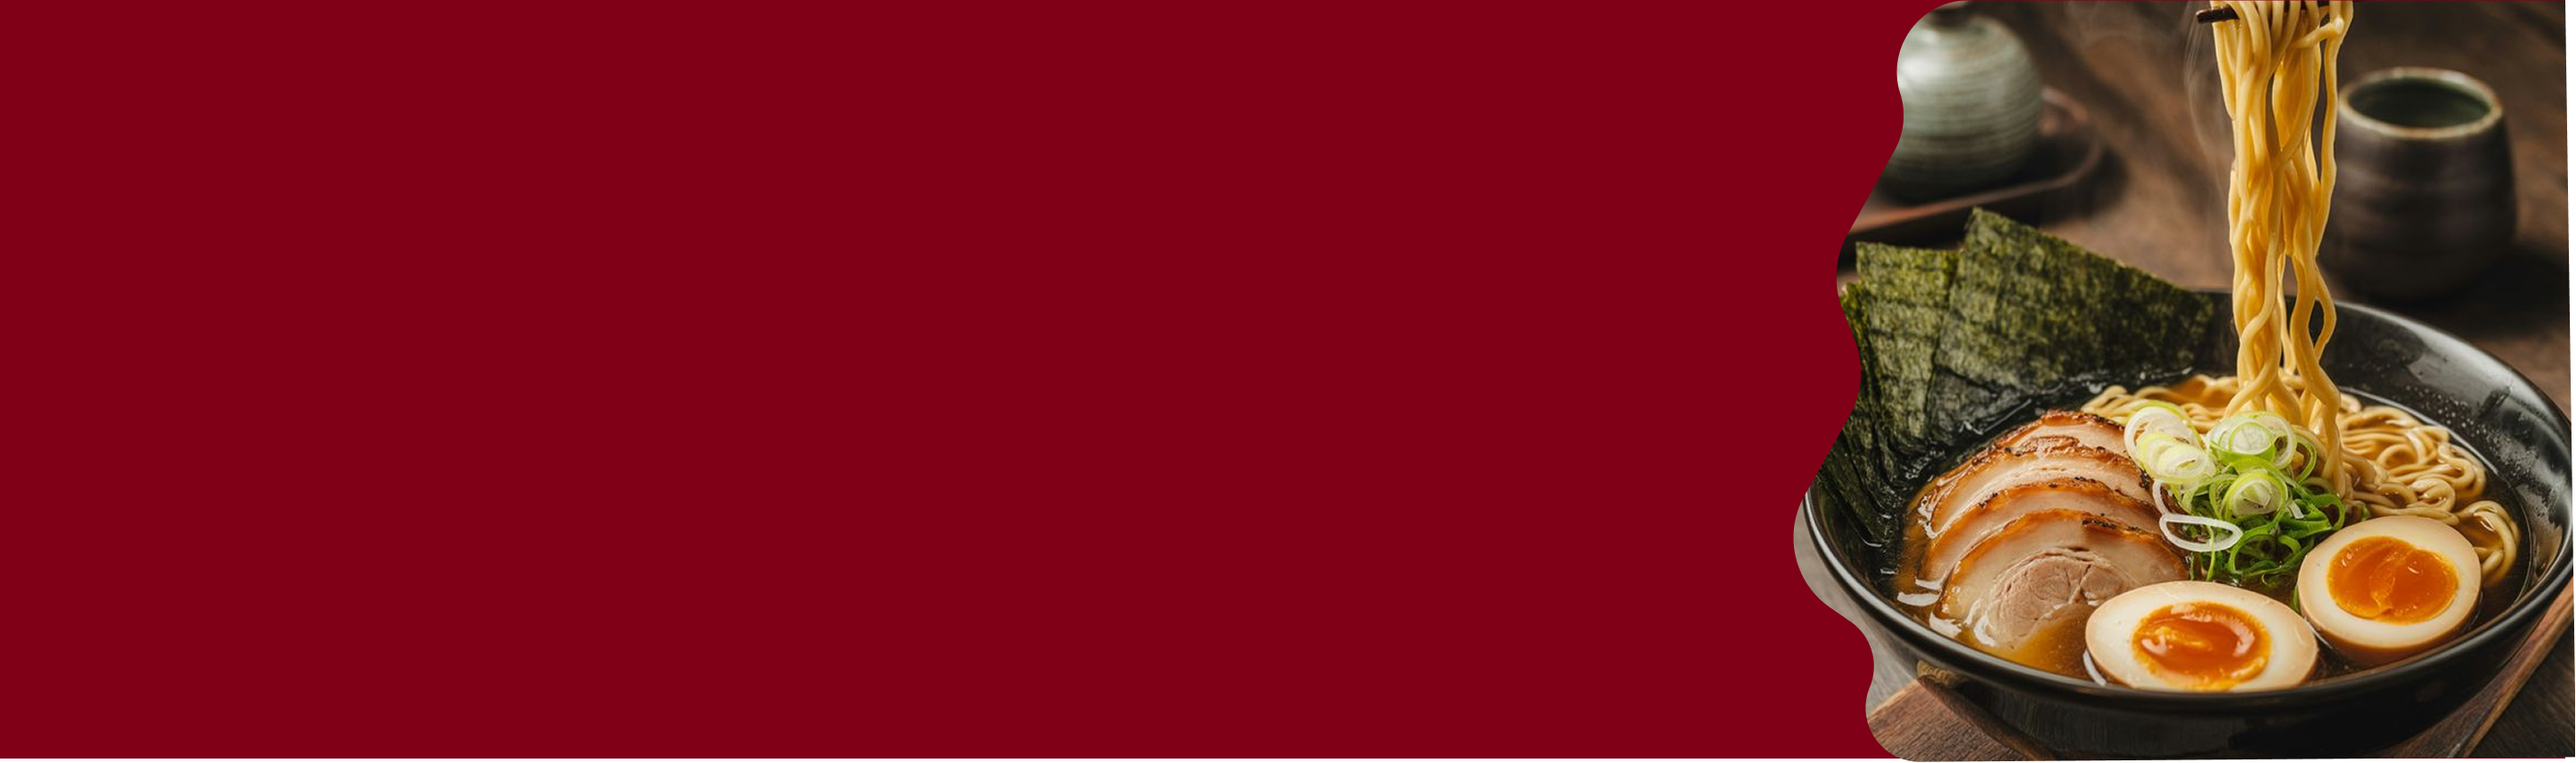
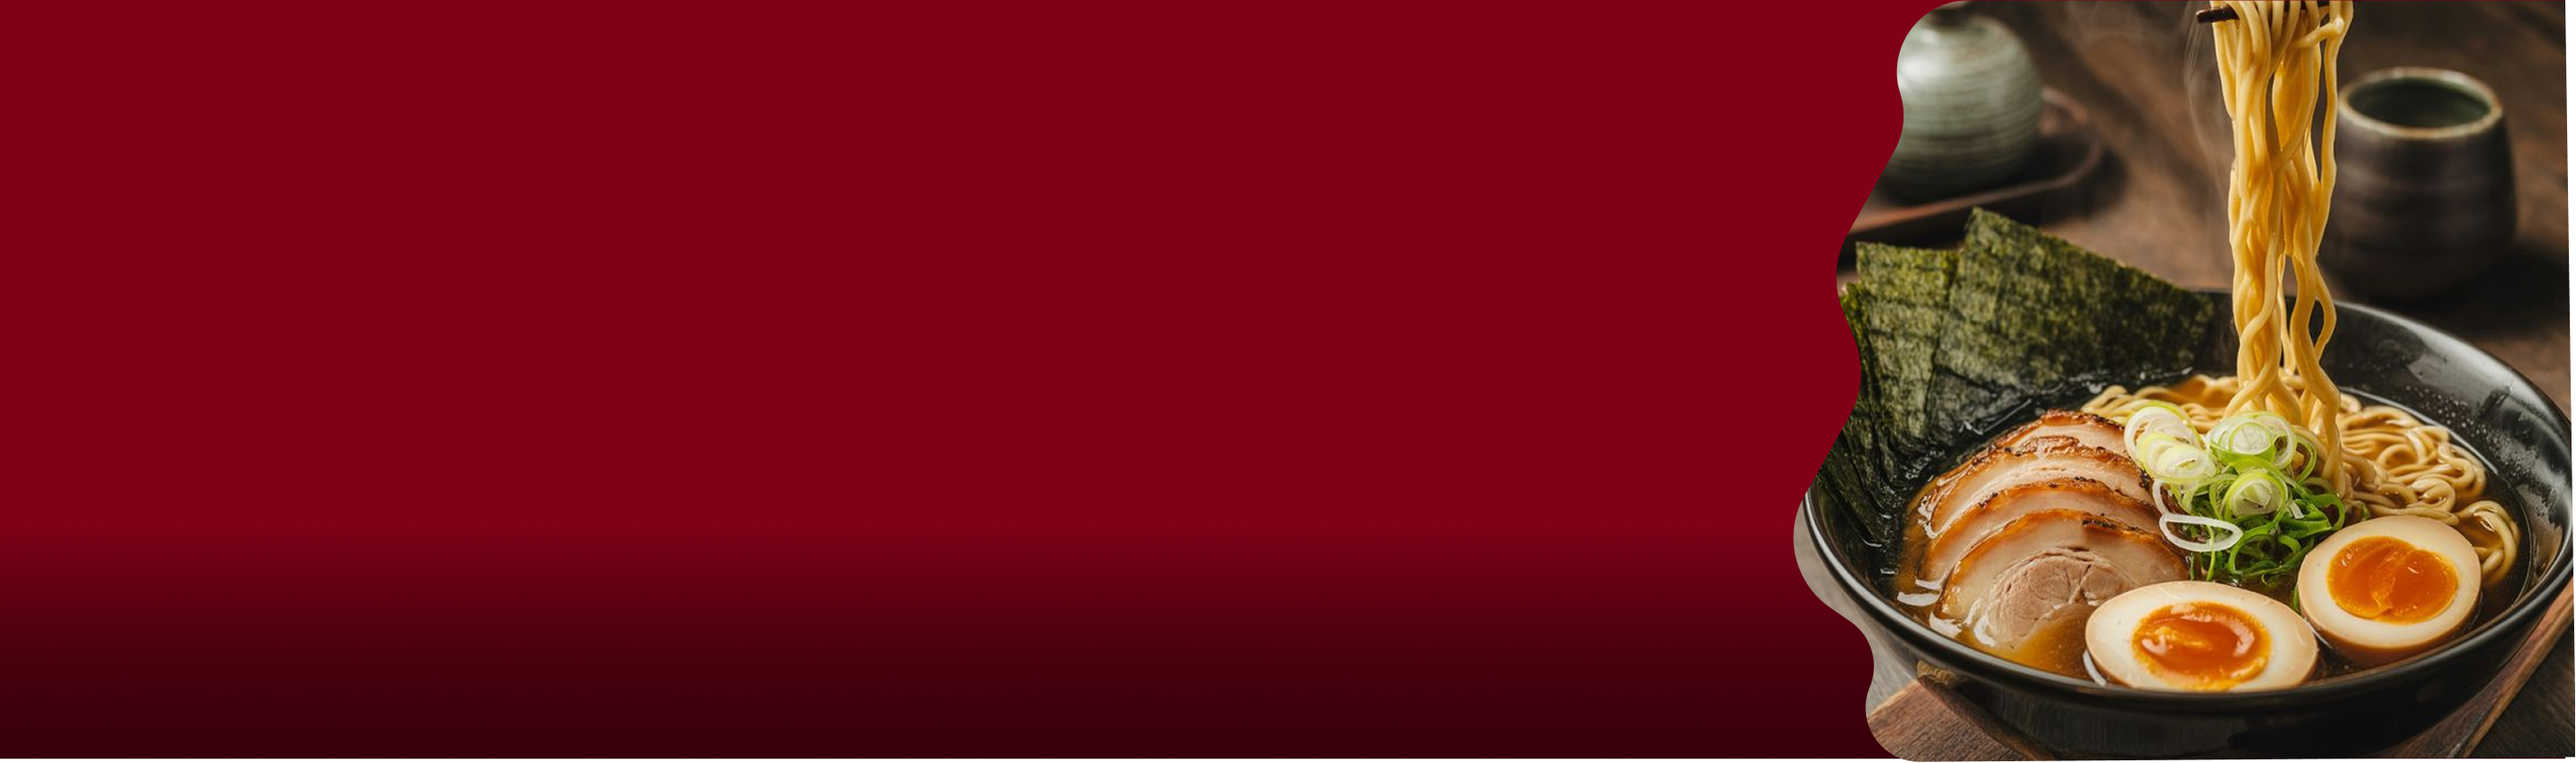
feats: develop footer

Changed region(s): [[0.0, 0.7281, 0.7469, 1.0]]

diff --git a/resources/views/partials/landing/footer.blade.php b/resources/views/partials/landing/footer.blade.php
@@ -1,6 +1,59 @@
-<footer>
-    <div>
-        <img src="{{ asset('img/Background/BG-Footer.png') }}" alt=""
-        class="w-full h-full object-cover">
+<footer class="relative">
+    <-Background->
+        <img src="{{ asset('img/Background/BG-Footer.png') }}"
+        class="absolute inset-0 w-full h-full justify-center object-cover">
+    <div class="relative z-10 flex justify-center -ml-140">
+        <img src="{{ asset('img/Logo/LogoWithName.png') }}"
+        class="h-full w-48 ml-32 mt-10">
+
+        <div class="relative z-10 flex -ml-48 mt-60">
+            <img src="{{ asset('img/Logo/Tiktok.png') }}" 
+            class="w-8 h-8 ml-2">
+            <img src="{{ asset('img/Logo/Instagram.png') }}" 
+            class="w-8 h-8 ml-2">
+            <img src="{{ asset('img/Logo/Twitter.png') }}" 
+            class="w-8 h-8 ml-2">
+            <img src="{{ asset('img/Logo/Facebook.png') }}" 
+            class="w-8 h-8 ml-2">
+            <h1 class="text-white font-black mt-10 h-30 -ml-52 text-xl">Copyright © 2026 Dinelogiq</h1>
+        </div>
+        <div class="relative z-10 flex mt-16 ml-24">
+            <ul>
+                <li class="text-white mt-1 font-black text-xl ">DISCOVER</li>
+                <li class="text-white mt-1 font-black text-xl ">MORE</li>
+                <li class="text-white mt-1 ">Home</li>
+                <li class="text-white mt-1 ">Menu</li>
+                <li class="text-white mt-1 ">Location</li>
+                <li class="text-white mt-1 ">Contact</li>
+                <li class="text-white mt-1 ">About</li>
+                <li class="text-white mt-1 ">Terms & Condition</li>
+                <li class="text-white mt-1 ">Privacy & Policy</li>
+            </ul>
+        </div>
+        <div class="relative z-10 mt-16.5 ml-30"> 
+             <div class="relative z-10 flex">
+                <ul>
+                    <li class="text-white font-black text-xl">VISIT US IN</li>
+                    <li class="text-white">Jl. Sisingamangaraja, Blok 3E</li>
+                </ul>
+             </div>
+             <div class="relative z-10 flex mt-10">
+                <ul>
+                    <li class="text-white font-black text-xl">OPENING HOURS</li>
+                    <li class="text-white">Everyday <b>8AM - 11PM</b></li>
+                </ul>
+             </div>
+             <div class="relative z-10 flex mt-10">
+                <ul>
+                    <li class="text-white font-black text-xl flex">CONTACT US</li>
+                    <li class="text-white flex gap-2">
+                        <img src="{{ asset('img/Logo/Whatsapp.png') }}">
+                        082155487766</li>
+                    <li class="text-white flex gap-2">
+                        <img src="{{ asset('img/Logo/Gmail.png') }}">
+                        dinelogiqcon@outlook.com</li>
+                </ul>
+             </div>
+        </div>     
     </div>
 </footer>

diff --git a/resources/views/landing/home.blade.php b/resources/views/landing/home.blade.php
@@ -14,7 +14,7 @@
         
         @include('partials.landing.header')
         <img src="{{ asset('img/Background/BG-Header-Home.png') }}"
-            class="-mt-40 realtive z-0">
+            class="-mt-40 relative z-0 justify-center">
         
 
         
